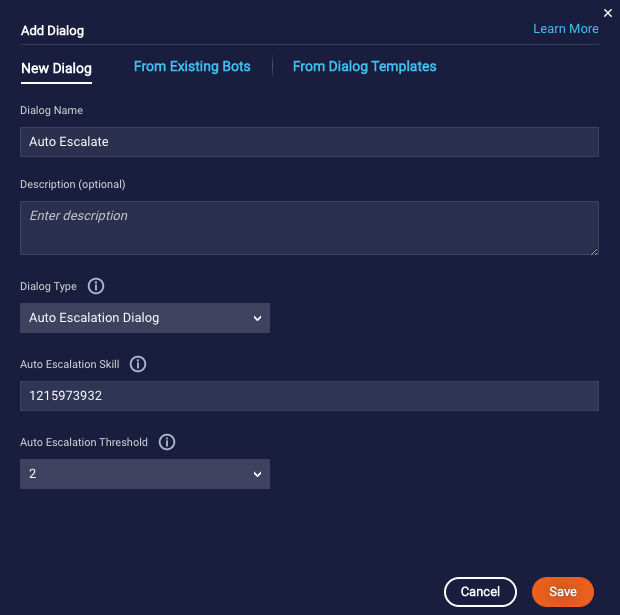
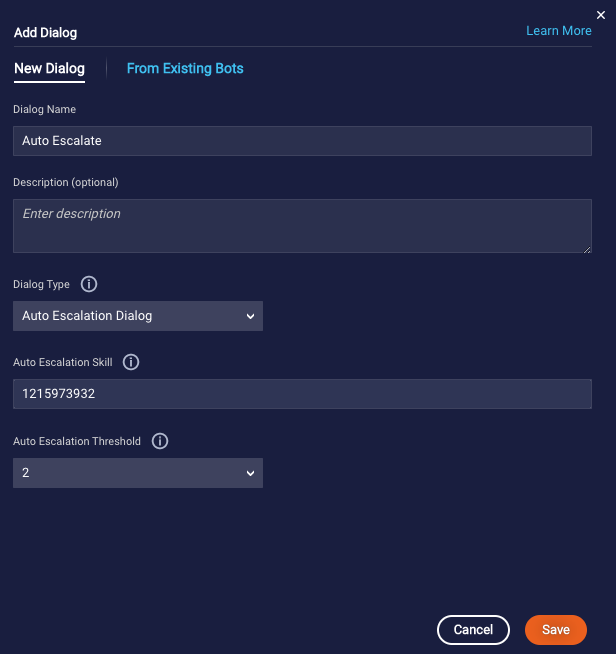
Hide Dialog Templates doc

diff --git a/pages/Documents/ConversationalAI/ConversationBuilder/Dialogs/dialog-basics.md b/pages/Documents/ConversationalAI/ConversationBuilder/Dialogs/dialog-basics.md
@@ -24,8 +24,10 @@ There are several types of dialogs:
 - **Auto Escalation**: This type of dialog frees the consumer from being stuck within a question, which happens when the bot repeatedly doesn’t recognize the consumer’s input. The dialog is triggered automatically after a configurable threshold of failures is reached; it gives the consumer the option to be transferred. For more on this, see [here](conversation-builder-dialogs-auto-escalation-dialogs.html).
 * **Survey**: Survey dialogs can only be created in post-conversation survey bots. Use a survey dialog to define a survey. For more on this, see [here](conversation-builder-bots-post-conversation-survey-bots.html).
 
+<!--
 ### Dialog templates
 You can make a dialog available to other bot developers as a dialog template. For information on working with dialog templates, see [here](conversation-builder-dialog-templates.html).
+-->
 
 ### Context switching
 
